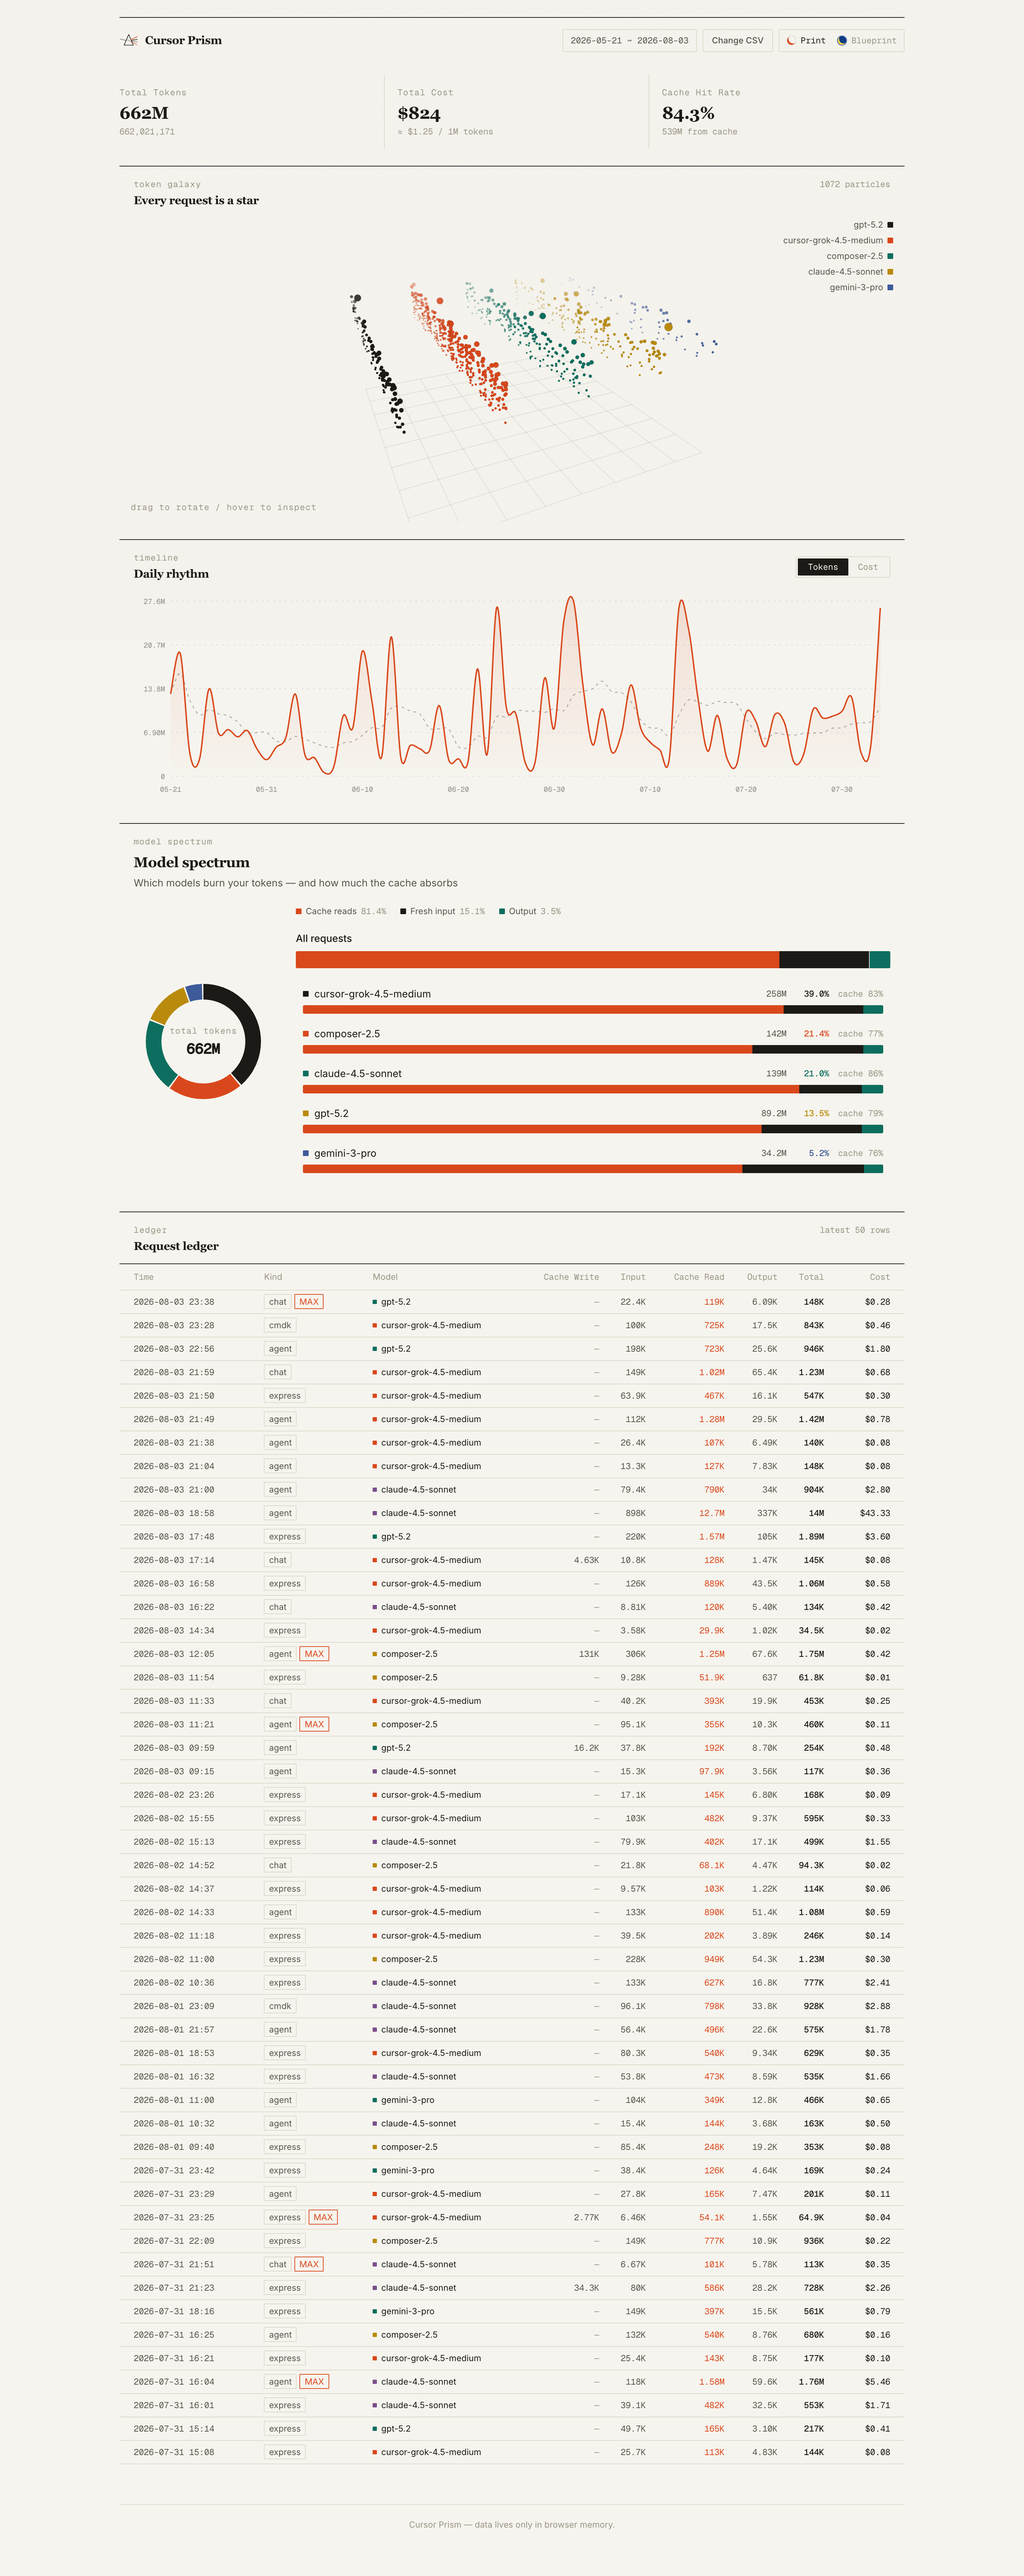
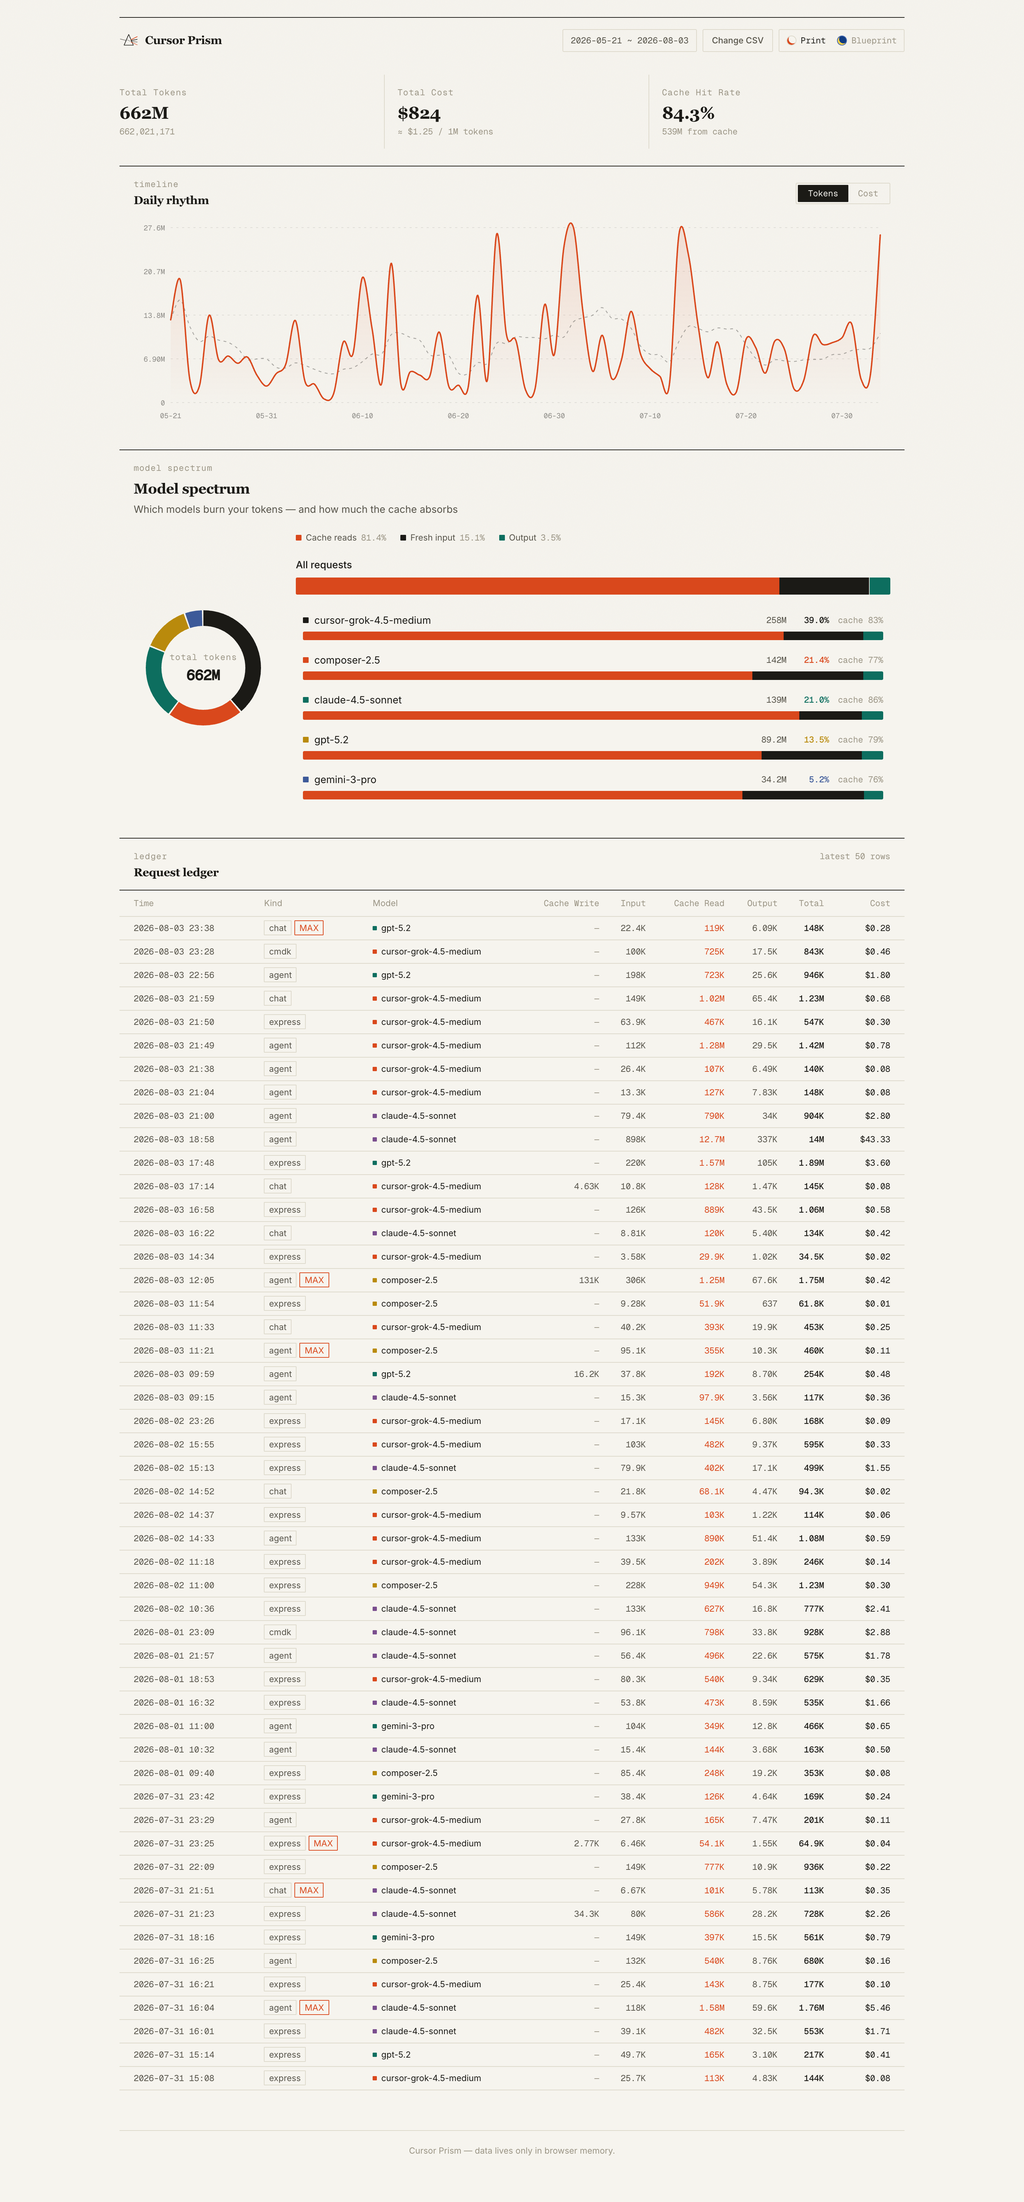
feat(dashboard)!: remove the Token Galaxy
The galaxy failed its own test: x=time and y=log(tokens) were real
encodings but unreadable under a chrome-free perspective projection,
and z=model-index was arbitrary — the 'clusters' were an artifact,
not information. Sparse exports laid it bare: a few dots floating in
empty space. No axis, no scale, no answer to any question — so out
it goes. The dashboard is now four blocks that each answer one
question: KPI, daily rhythm, model spectrum, request ledger.

BREAKING CHANGE: the Token Galaxy visualization is removed

diff --git a/src/routes/dashboard.tsx b/src/routes/dashboard.tsx
@@ -1,6 +1,5 @@
 import { createFileRoute, Link, useNavigate } from "@tanstack/react-router";
 import { useEffect, useMemo, useRef, useState } from "react";
-import { Galaxy } from "#/components/charts/Galaxy";
 import { ModelSpectrum } from "#/components/charts/ModelSpectrum";
 import { TimelineChart } from "#/components/charts/TimelineChart";
 import { KpiRow } from "#/components/KpiRow";
@@ -129,36 +128,10 @@ function Dashboard() {
 				{/* KPI overview */}
 				<KpiRow summary={summary} />
 
-				{/* Token Galaxy */}
-				<section
-					className="rise mt-6"
-					style={{ "--d": "200ms" } as React.CSSProperties}
-				>
-					<Card className="overflow-hidden">
-						<div className="flex items-baseline justify-between px-5 pt-4">
-							<div>
-								<div className="kicker">token galaxy</div>
-								<h2 className="display mt-0.5 text-base font-semibold">
-									Every request is a star
-								</h2>
-							</div>
-							<div
-								className="num hidden text-xs sm:block"
-								style={{ color: "var(--ink-3)" }}
-							>
-								{rows.length} particles
-							</div>
-						</div>
-						<div className="h-[440px]">
-							<Galaxy rows={rows} />
-						</div>
-					</Card>
-				</section>
-
 				{/* Trend */}
 				<section
 					className="rise mt-6"
-					style={{ "--d": "280ms" } as React.CSSProperties}
+					style={{ "--d": "200ms" } as React.CSSProperties}
 				>
 					<Card className="px-5 pt-4 pb-3">
 						<div className="mb-3 flex flex-wrap items-center justify-between gap-2">
@@ -200,7 +173,7 @@ function Dashboard() {
 				<section className="mt-6">
 					<Card
 						className="rise px-5 py-4"
-						style={{ "--d": "340ms" } as React.CSSProperties}
+						style={{ "--d": "280ms" } as React.CSSProperties}
 					>
 						<SectionTitle
 							eyebrow="model spectrum"
@@ -221,7 +194,7 @@ function Dashboard() {
 				{/* Request ledger */}
 				<section
 					className="rise mt-8"
-					style={{ "--d": "460ms" } as React.CSSProperties}
+					style={{ "--d": "340ms" } as React.CSSProperties}
 				>
 					<Card className="overflow-hidden">
 						<div className="flex items-baseline justify-between px-5 pt-4 pb-3">

diff --git a/src/routes/index.tsx b/src/routes/index.tsx
@@ -30,7 +30,7 @@ const STEPS = [
 	{
 		n: "03",
 		title: "Explore",
-		desc: "Three lenses on where your tokens actually go",
+		desc: "Two lenses on where your tokens actually go",
 	},
 ];
 
@@ -42,10 +42,6 @@ const FEATURES = [
 	{
 		title: "Model spectrum",
 		desc: "Per model share fused with cache composition. See which model does the heavy lifting, and how hard the cache works.",
-	},
-	{
-		title: "Token galaxy",
-		desc: "A 3D particle cloud built from scratch. Every request is a star you can grab and inspect.",
 	},
 ];
 
@@ -139,8 +135,7 @@ function Landing() {
 							}
 						>
 							Cursor hands you a spreadsheet. Cursor Prism hands you an
-							observatory — trends, models, cache economics, and a 3D galaxy of
-							every request.
+							observatory — trends, models, and cache economics.
 						</p>
 					</div>
 					<dl
@@ -211,7 +206,7 @@ function Landing() {
 					>
 						<div className="kicker">The index</div>
 						<h2 className="display mt-1 text-2xl font-semibold">
-							Three lenses on your usage
+							Two lenses on your usage
 						</h2>
 					</div>
 					<div className="grid gap-x-16 sm:grid-cols-2">

diff --git a/src/routes/__root.tsx b/src/routes/__root.tsx
@@ -19,7 +19,7 @@ export const Route = createRootRoute({
 			{
 				name: "description",
 				content:
-					"Refract your Cursor usage CSV into a spectrum: trends, models, cache economics and a 3D token galaxy — parsed 100% locally in your browser.",
+					"Refract your Cursor usage CSV into a spectrum: trends, models and cache economics — parsed 100% locally in your browser.",
 			},
 			{
 				property: "og:title",
@@ -28,7 +28,7 @@ export const Route = createRootRoute({
 			{
 				property: "og:description",
 				content:
-					"Refract your Cursor usage CSV into a spectrum: trends, models, cache economics and a 3D token galaxy — parsed 100% locally in your browser.",
+					"Refract your Cursor usage CSV into a spectrum: trends, models and cache economics — parsed 100% locally in your browser.",
 			},
 			{
 				property: "og:type",

diff --git a/README.md b/README.md
@@ -2,7 +2,7 @@
 
 > Refract every Cursor token into its spectrum.
 
-The Cursor dashboard hands you a plain table. **Cursor Prism** turns your exported usage CSV into an observatory: trends, models, cache economics — plus a 3D token galaxy you can grab and spin.
+The Cursor dashboard hands you a plain table. **Cursor Prism** turns your exported usage CSV into an observatory: trends, per-model share, cache economics — all hand-drawn, all in your browser.
 
 **100% local parsing** — your CSV never leaves the browser (`FileReader`, in-memory only). Nothing is uploaded, tracked, persisted, or stored server-side. There is no server side.
 
@@ -15,15 +15,14 @@ One semantic token system, two complete looks. Switch from the top bar — the c
 | Print | Blueprint |
 | --- | --- |
 | Editorial paper: Georgia serif, ruled hairlines, vermilion accent, flat infographics | Technical drawing: Geist Mono, graph paper, construction dashes, one amber highlight |
-| ![Print](docs/screenshots/print-galaxy.png) | ![Blueprint](docs/screenshots/blueprint-galaxy.png) |
+| ![Print](docs/screenshots/print-landing.png) | ![Blueprint](docs/screenshots/blueprint-landing.png) |
 
-## Three lenses
+## Two lenses
 
 | Lens | What it shows |
 | --- | --- |
 | Trend Prism | Daily token & cost area charts with a 7-day moving-average reference |
 | Model Spectrum | Per-model share donut fused with cache/fresh-input/output composition |
-| Token Galaxy | A hand-rolled, dependency-free 3D particle cloud. Every request is a star — drag to rotate, hover to inspect |
 
 ## Quick start
 
@@ -36,13 +35,13 @@ Then:
 
 1. **Export** — open [cursor.com/dashboard](https://cursor.com/dashboard) → Usage → **Export CSV**
 2. **Drop** — drag the CSV onto the landing page (or click to browse)
-3. **Explore** — three lenses on where your tokens actually go
+3. **Explore** — two lenses on where your tokens actually go
 
 ## Tech stack
 
 - [TanStack Start](https://tanstack.com/start) + React 19 + Vite
 - Tailwind CSS v4
-- **Zero chart libraries** — every visualization is hand-rolled SVG / Canvas (area chart, donut, stacked bars, 3D particle cloud)
+- **Zero chart libraries** — every visualization is hand-rolled SVG / Canvas (area chart, donut, stacked bars)
 - Theme system: CSS variables + the View Transitions API, no runtime theme engine
 - Cloudflare Workers ready (`wrangler.jsonc`)
 
@@ -58,8 +57,7 @@ src/
 │   ├── format.ts           #   Number / timestamp formatting
 │   └── store.ts            #   Global in-memory store (no persistence)
 ├── components/
-│   ├── charts/             # Hand-rolled visuals: TimelineChart /
-│   │                       #   ModelSpectrum / Galaxy (3D)
+│   ├── charts/             # Hand-rolled visuals: TimelineChart / ModelSpectrum
 │   ├── KpiRow.tsx          # KPI strip with rolling numbers
 │   ├── TaglineReveal.tsx   # Word-by-word scroll reveal on the landing page
 │   ├── NotFound.tsx        # Branded 404
